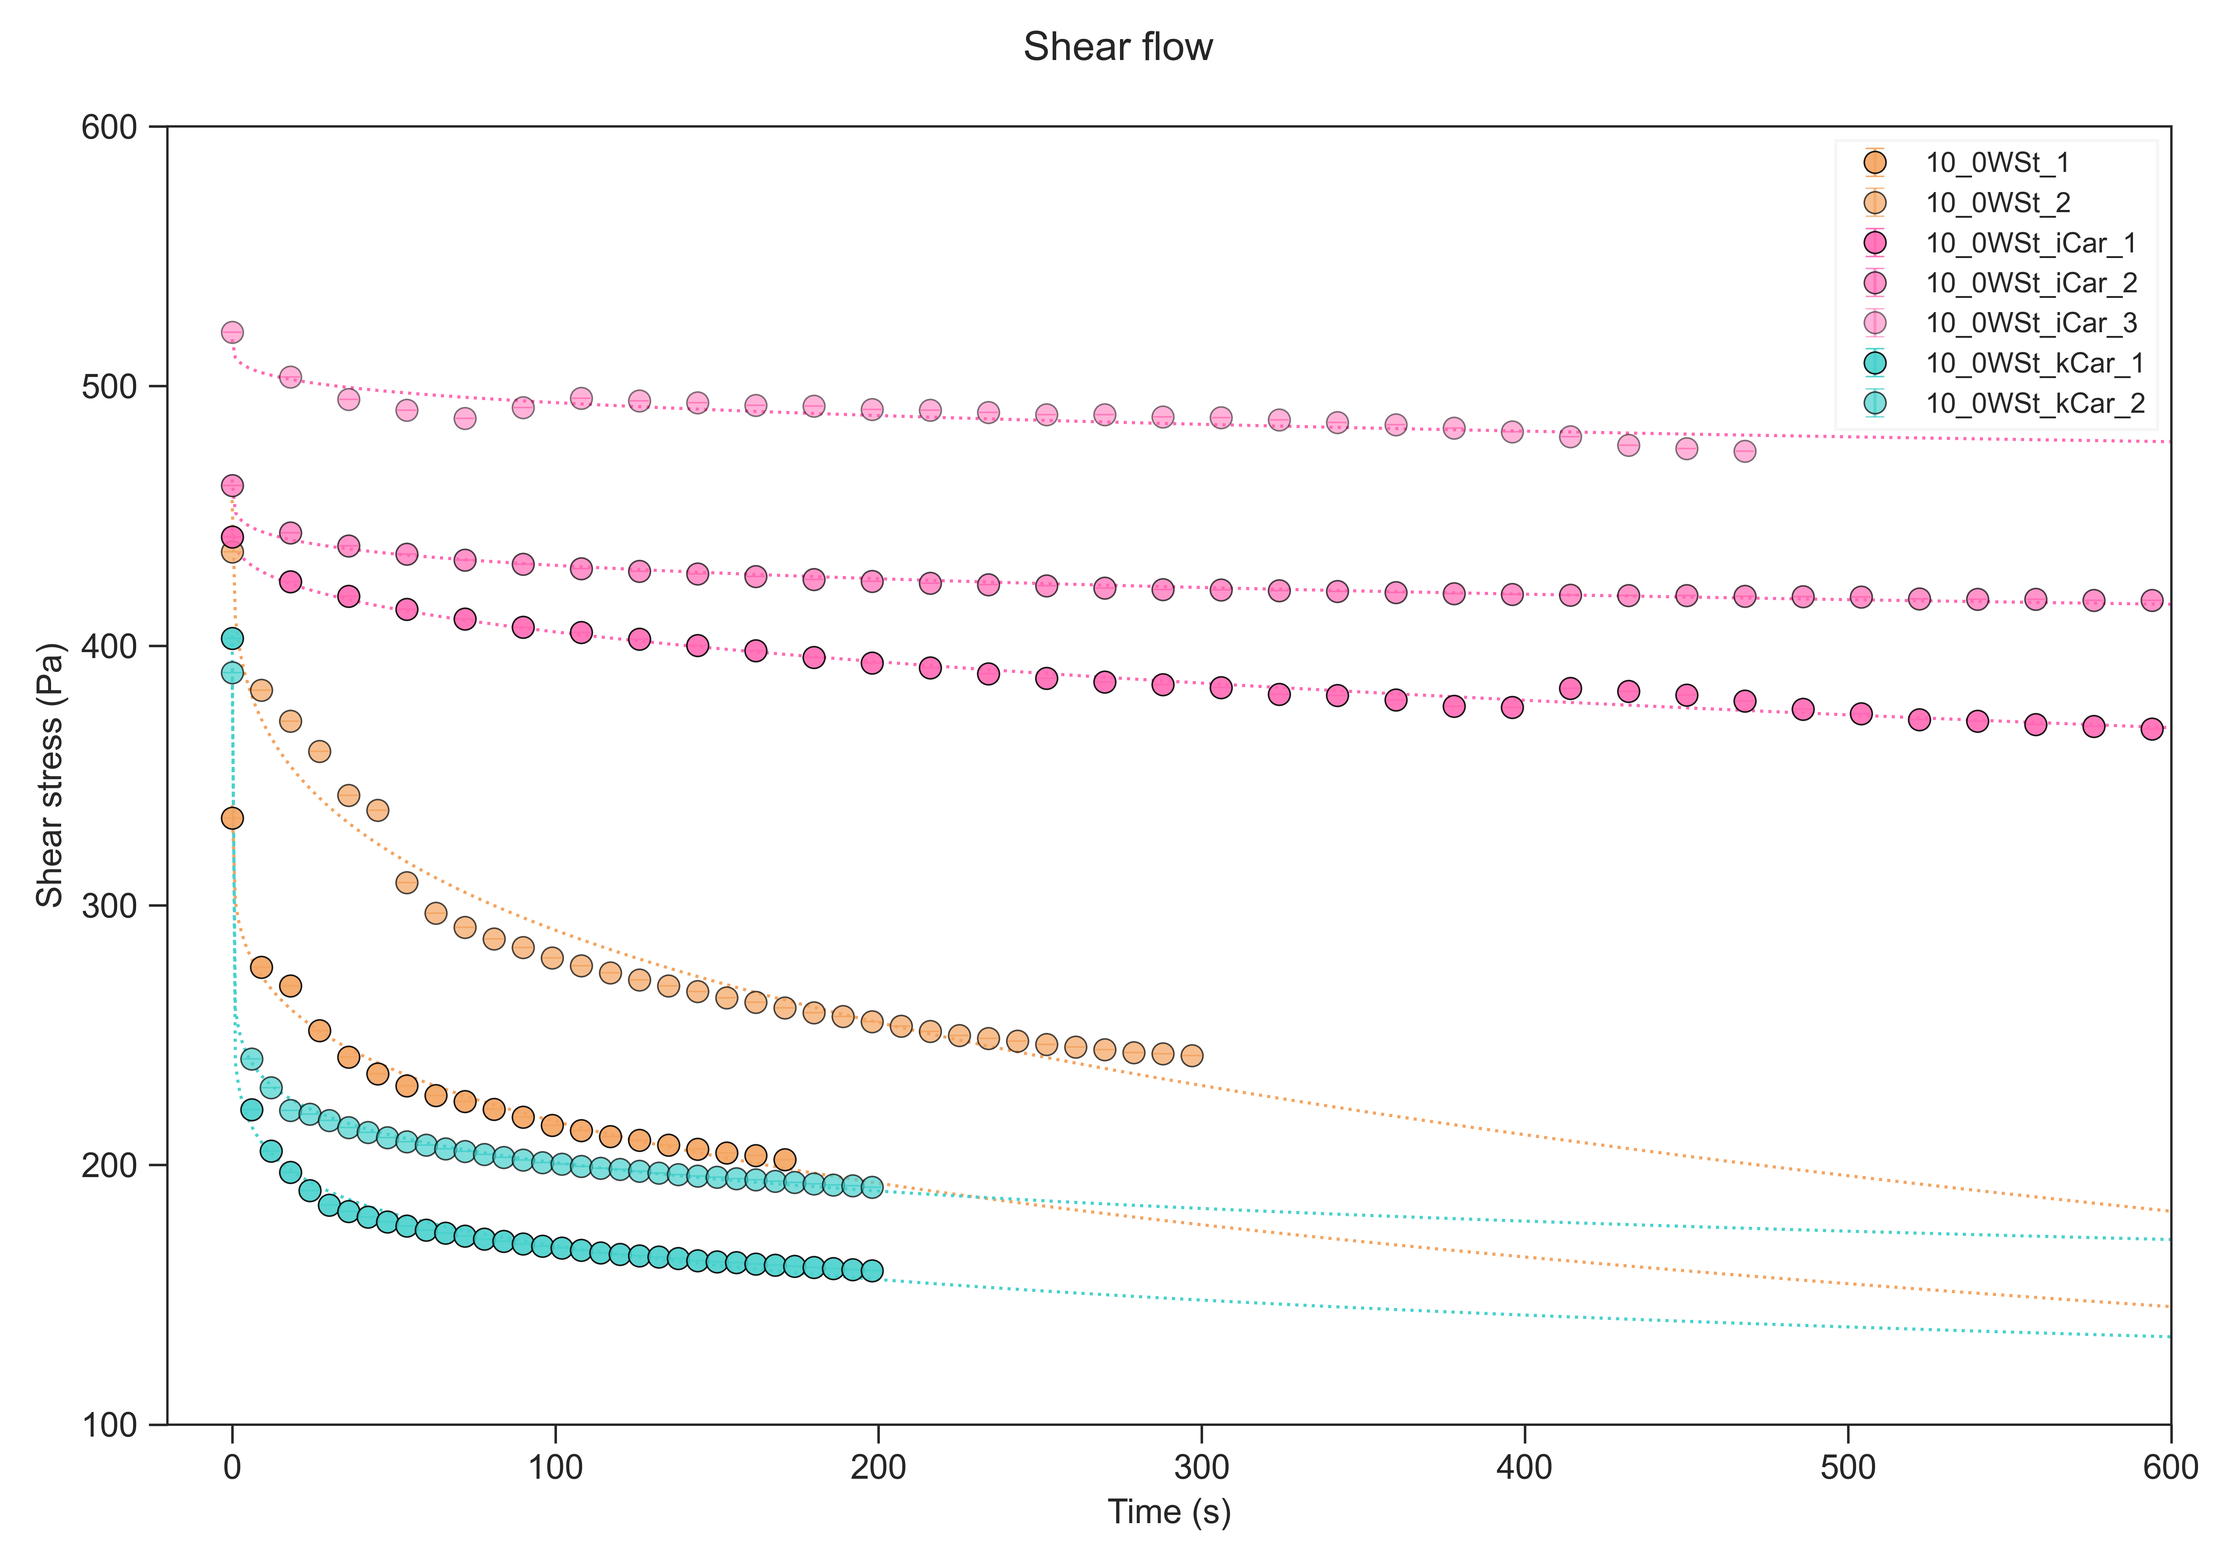
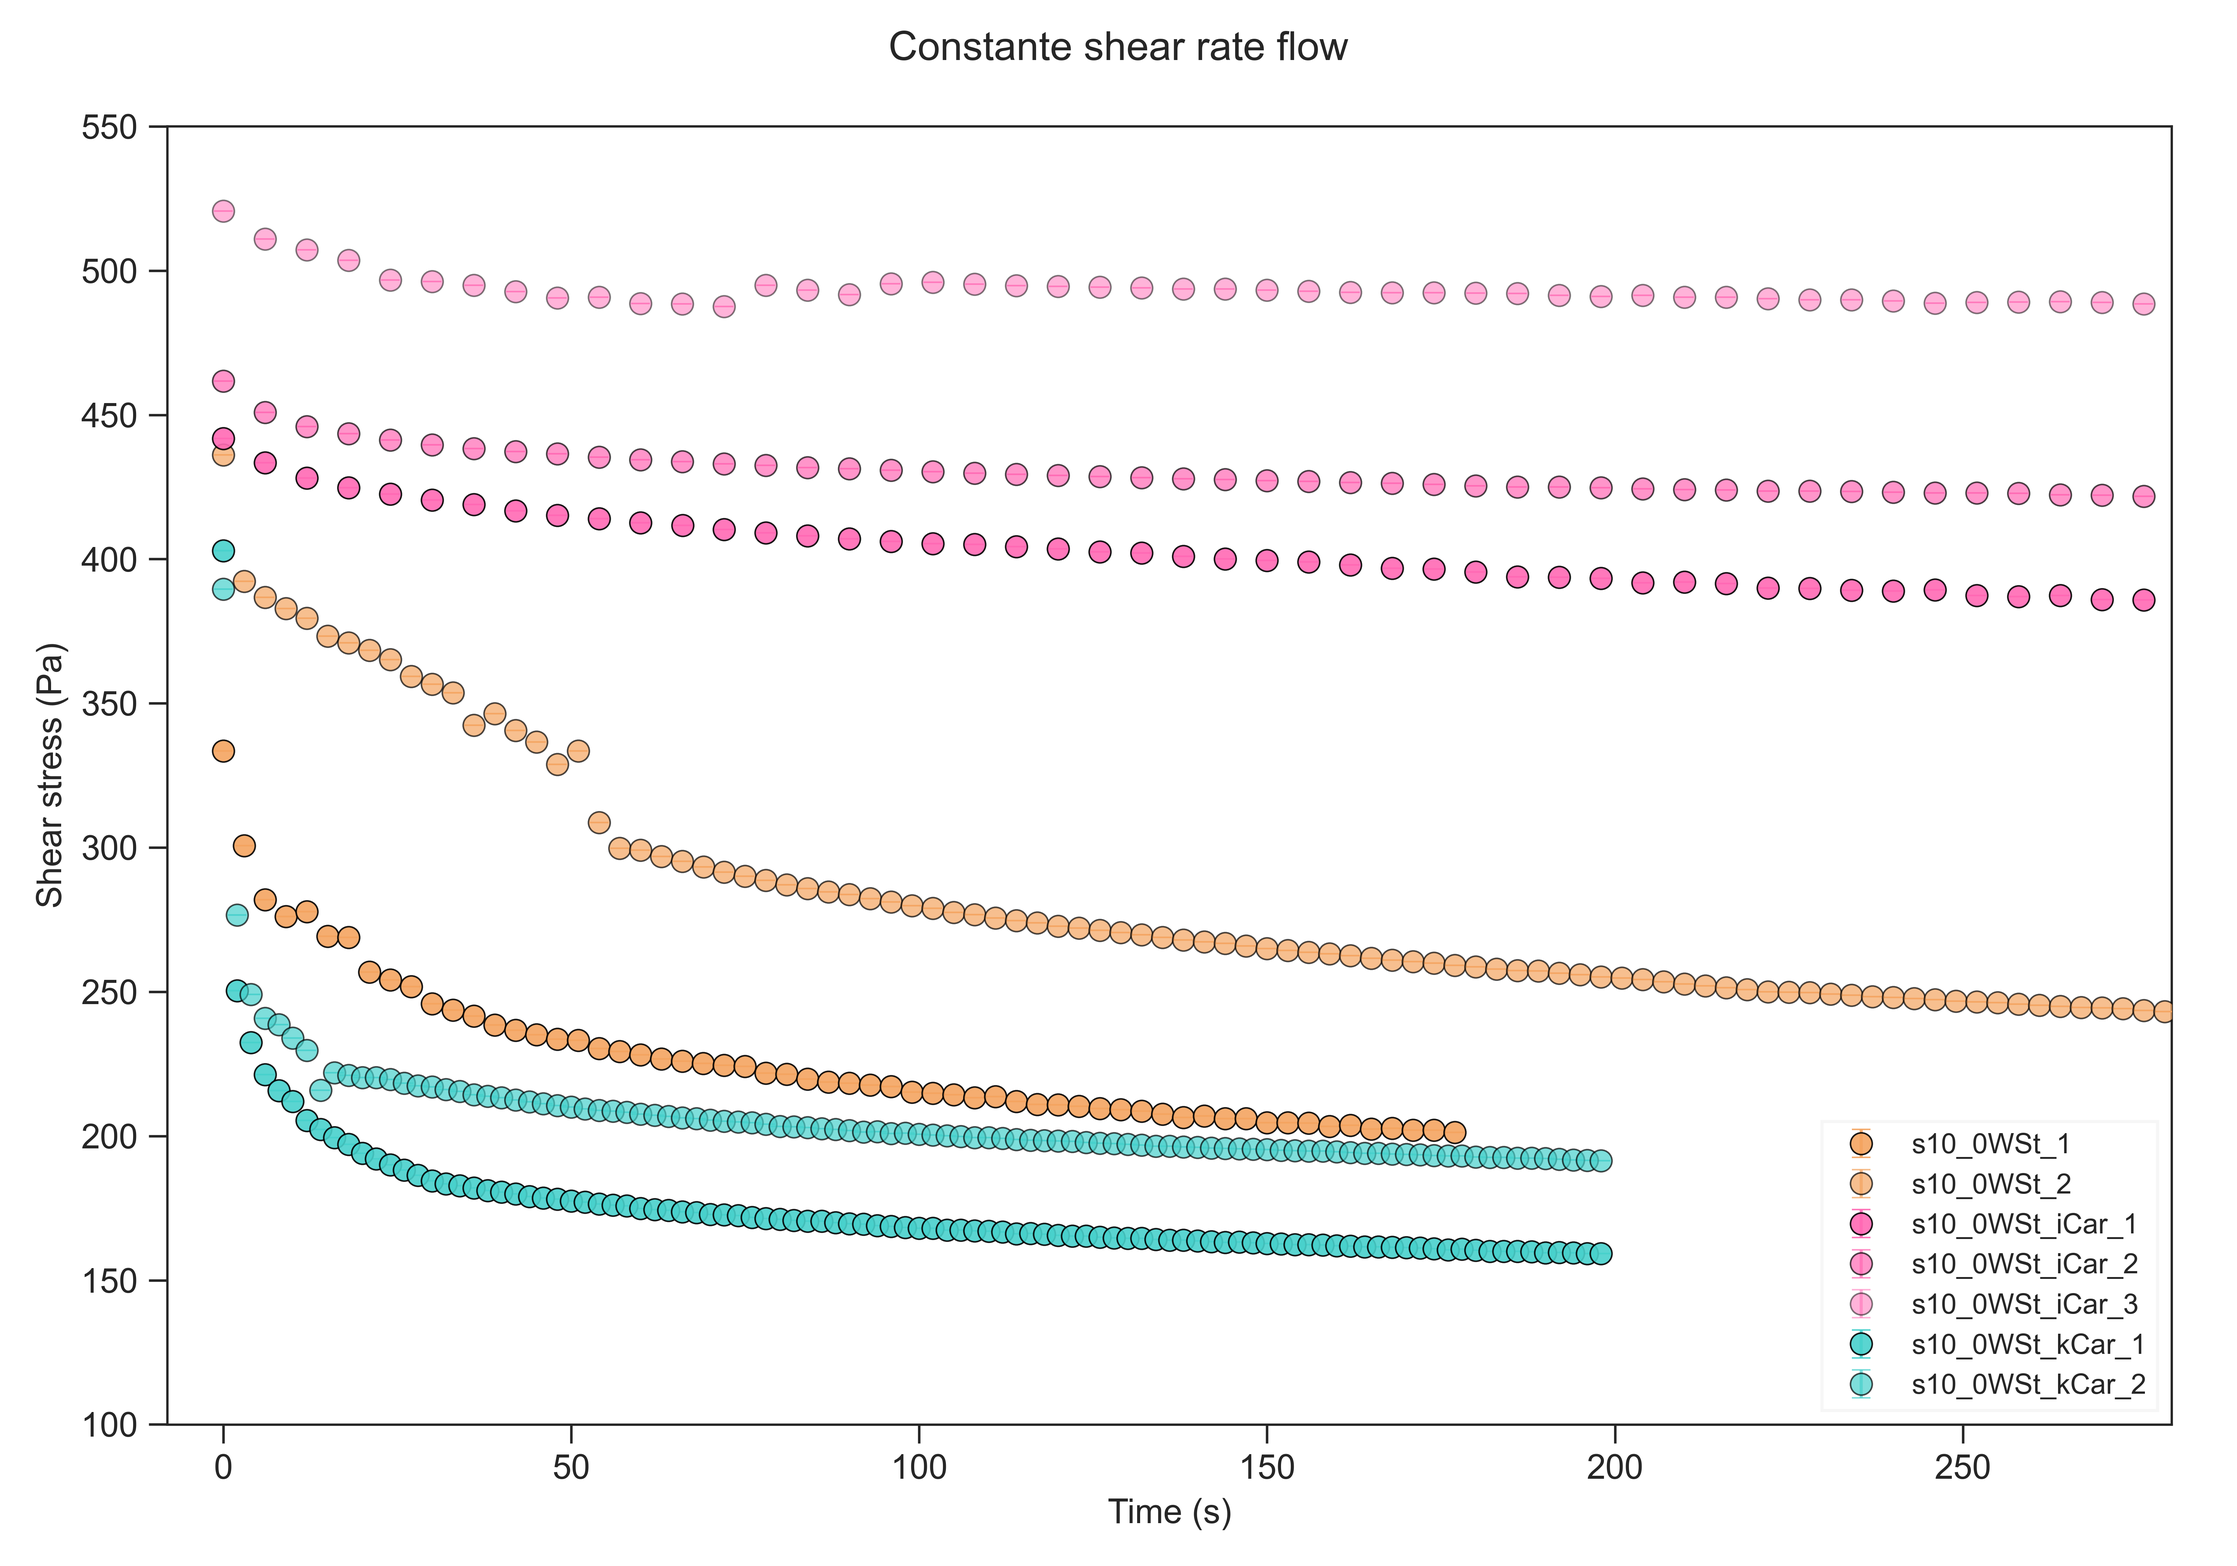
plot shear flow cte and steps

diff --git a/custom plots/ShearFlow.py b/custom plots/ShearFlow.py
@@ -31,22 +31,49 @@ def fonts(folder_path, s=11, m=13):
 
 def exportFit(
         sample,
-        K, n, sigmaZero, err,
-        rows):
-    data = {
-        'Sample': sample,
-        'K': K, 'K err': err[0],
-        'n': n, 'n err': err[1],
-        'sigmaZero': sigmaZero, 'sigmaZero err': err[2]}
+        data, err,
+        rows, modHB=False):
+    keys = ('eta0', 'tau0', 'tau_od', 'gammaDot_od', 'visc_K', 'visc_n', 'etaInf') if modHB \
+        else ('K', 'n', 'sigmaZero')
+    values = (data, err)
 
-    rows.append(data)
+    dictData = {'Sample': sample}
+    iParams = 0
+    for key, value in zip(keys, range(len(values[0]))):
+        dictData[f'{key}'] = values[0][iParams]
+        dictData[f'{key} err'] = values[1][iParams]
+        iParams += 1
+
+    rows.append(dictData)
 
     return rows
 
 
-# TODO: fazer função para fitar modelo de HB
-def powerLaw(sigma, k, n, sigmaZero):
+def funcHB(sigma, k, n, sigmaZero):
     return sigmaZero + k * (sigma ** n)
+
+
+def funcModHB(gamma_dot, eta_0, tau_0, tau_od, gamma_dot_od, K, n, eta_inf):
+    # First part of the equation
+    exp_term = np.exp(- (eta_0 * gamma_dot) / tau_0)
+    part1 = 1 - exp_term
+
+    # Second part (inside the curly brackets)
+    term1 = (tau_0 - tau_od) / gamma_dot * np.exp(- gamma_dot / gamma_dot_od)
+    term2 = tau_od / gamma_dot
+    term3 = K * gamma_dot ** (n - 1)
+
+    # Combine the second part
+    part2 = term1 + term2 + term3
+
+    # Final equation
+    eta_ss = part1 * part2 + eta_inf
+
+    return eta_ss
+
+
+def funcTransient(t, tau_0, tau_e, alpha, gamma_dot):
+    return tau_e + (tau_0 - tau_e) * np.exp(alpha * gamma_dot * t)
 
 
 def getCteMean(values, tolerance=100):
@@ -114,6 +141,7 @@ def getSamplesData(dataPath, nSt, nIc):
             'shear_stress': segments(shear_stress),
             'viscosity': segments(viscosity)
         }
+
     # Store data for each sample type
     samples = {'st': [], 'ic': [], 'kc': []}
 
@@ -143,137 +171,205 @@ def getSamplesData(dataPath, nSt, nIc):
     return dict_cteRate, dict_stepsRate
 
 
-def plotFlowTime(listRows, nSamples,
-                 ax, x, y,
-                 axTitle, yLabel, yLim,
-                 curveColor, markerStyle,
-                 sampleName,
-                 logScale=False):
+def plotFlow(listRows, nSamples,
+             ax, x, y,
+             axTitle, yLabel, yLim, xLabel, xLim,
+             curveColor, markerStyle,
+             sampleName, fit='',
+             logScale=False):
     def legendLabel():
         """Applies consistent styling to legends in plots."""
         legend = ax.legend(fancybox=False, frameon=True, framealpha=0.9, fontsize=9)
         legend.get_frame().set_facecolor('w')
         legend.get_frame().set_edgecolor('whitesmoke')
 
-    def configPlot(fit, idSample):
+    def configPlot(idSample):
         ax.set_title(axTitle, size=9, color='crimson')
         ax.spines[['top', 'bottom', 'left', 'right']].set_linewidth(0.75)
-        ax.set_xlabel('Time (s)')
+
+        ax.set_xlabel(f'{xLabel}')
         ax.set_xscale('log' if logScale else 'linear')
-        ax.set_xlim([-20, +600])
+        ax.set_xlim(xLim)
 
         ax.set_ylabel(f'{yLabel}')
         ax.set_yscale('log' if logScale else 'linear')
         ax.set_ylim(yLim)
 
-        if fit:
+        if fit != '':
             ax.plot(
                 x_fit, y_fit, color=curveColor, linestyle=':', linewidth=1,
                 zorder=2)
-        else:
-            ax.errorbar(
-                x[curve][::3], y[curve][::3], yerr=0, color=curveColor, alpha=(0.9 - curve * 0.2),
-                fmt=markerStyle, markersize=7, mec='k', mew=0.5,
-                capsize=3, lw=1, linestyle='',  # ecolor='k'
-                label=f'{sampleName}_{idSample + 1}', zorder=3)
+
+        ax.errorbar(
+            x[curve], y[curve], yerr=0, color=curveColor, alpha=(0.9 - curve * 0.2),
+            fmt=markerStyle, markersize=7, mec='k', mew=0.5,
+            capsize=3, lw=1, linestyle='',  # ecolor='k'
+            label=f'{sampleName}_{idSample + 1}', zorder=3)
 
         legendLabel()
 
     for curve in range(nSamples):
-        params, covariance = curve_fit(powerLaw, x[curve], y[curve], p0=(2, 1, 0))
-        errors = np.sqrt(np.diag(covariance))
-        K, n, sigmaZero = params
-        x_fit = np.linspace(0, 700, 700)
-        y_fit = powerLaw(x_fit, K, n, sigmaZero)
+        # split_index = np.where(x[curve] <= 180)[0][-1]
+        # x[curve], y[curve] = x[curve][:split_index], y[curve][:split_index]
 
-        configPlot(fit=False, idSample=curve)
-        configPlot(fit=True, idSample=curve)
+        if fit == 'HB':
+            params, covariance = curve_fit(funcHB, x[curve], y[curve], p0=(2, 1, 0))
+            errors = np.sqrt(np.diag(covariance))
+            K, n, sigmaZero = params
+            x_fit = np.linspace(.1, 1000, 1000)
+            y_fit = funcHB(x_fit, K, n, sigmaZero)
+            listRows = exportFit(
+                f'{sampleName}',
+                params, errors,
+                listRows)
+            configPlot(idSample=curve)
 
-        listRows = exportFit(
-            f'{sampleName}',
-            K, n, sigmaZero, errors,
-            listRows)
+        if fit == 'modHB':
+            params, covariance = curve_fit(funcModHB, x[curve], y[curve],
+                                           p0=(100, 10, 5, 1, 1, 0.5, 0.1), maxfev=5000, method='dogbox')
+            errors = np.sqrt(np.diag(covariance))
+            eta0, tau0, tau_od, gammaDot_od, visc_K, visc_n, etaInf = params
+            x_fit = np.linspace(.1, 1000, 1000)
+            y_fit = funcModHB(x_fit, eta0, tau0, tau_od, gammaDot_od, visc_K, visc_n, etaInf)
+            listRows = exportFit(
+                f'{sampleName}',
+                params, errors,
+                listRows, modHB=True)
+            configPlot(idSample=curve)
 
-        print(
-            f'\n· {sampleName} thixotropy fit parameters:\n'
-            f'K = {K:.2f} ± {errors[0]:.2f},\n'
-            f'n = {n:.2f} ± {errors[1]:.2f},\n'
-            f'sigma_0 = {sigmaZero:.1f} ± {errors[2]:.2f}.\n')
+        if fit == 'transient':
+            params, covariance = curve_fit(funcTransient, x[curve], y[curve], p0=(10, 1, 0.1, 1), method='trf')  # method='dogbox', maxfev=5000)
+            errors = np.sqrt(np.diag(covariance))
+            print(params, errors)
+            tau_0, tau_e, alpha, gamma_dot = params
+            x_fit = np.linspace(0, 180, 180)
+            y_fit = funcTransient(x_fit, tau_0, tau_e, alpha, gamma_dot)
+            # listRows = exportFit(
+            #     f'{sampleName}',
+            #     params, errors,
+            #     listRows)
+            configPlot(idSample=curve)
+
+        configPlot(idSample=curve)
 
     return listRows
 
 
-def main(dataPath):
+def main(dataPath, thixo):
     fonts('C:/Users/petrus.kirsten/AppData/Local/Microsoft/Windows/Fonts/')
-    # samplesQuantities = list(samplesValues.keys())
 
-    fileName = '10pct_0WSt_and_Car-Thixotropy'
+    fileName = '10pct_0WSt_and_Car-Thixotropy' if thixo else '10pct_0WSt_and_Car-Flow'
     dirSave = Path(*Path(filePath[0]).parts[:Path(filePath[0]).parts.index('data') + 1])
 
     plt.style.use('seaborn-v0_8-ticks')
     fig, axStress = plt.subplots(figsize=(10, 7), facecolor='w', ncols=1)
-    # axVisc = axStress.twinx()
-    fig.suptitle(f'Shear flow')
+    axVisc = None if thixo else axStress.twinx()
+    fig.suptitle(f'Constante shear rate flow' if thixo else f'Steps shear rate flow')
 
-    yTitle, yLimits = f'Shear stress (Pa)', (100, 600)
-    xTitle, xLimits = f'Frequency (Hz)', (0.05, 150)
+    xTitle, xLimits = (f'Time (s)', (-5, 200)) if thixo else (f'Shear rate ($s^{-1}$)', (15, 500))
+    yTitle, yLimits = (f'Shear stress (Pa)', (100, 600)) if thixo else (f'Shear stress (Pa)', (3, 550))
+    yTitleVisc, yLimitsVisc = f'Viscosity (mPa·s)', (450, 100000)
     st5_color, st10_color, ic_color, kc_color = 'silver', 'sandybrown', 'hotpink', 'mediumturquoise'
 
     st_nSamples, ic_nSamples, kc_nSamples = 2, 3, 2
-    constantShear, _ = getSamplesData(dataPath, st_nSamples, ic_nSamples)
+    constantShear, stepsShear = getSamplesData(dataPath, st_nSamples, ic_nSamples)
 
-    (x_st, s_st, v_st,
-     x_ic, s_ic, v_ic,
-     x_kc, s_kc, v_kc) = (
-        constantShear['st_time'],
-        constantShear['st_stressCte'],
-        constantShear['st_viscosityCte'],
-        #
-        constantShear['ic_time'],
-        constantShear['ic_stressCte'],
-        constantShear['ic_viscosityCte'],
-        #
-        constantShear['kc_time'],
-        constantShear['kc_stressCte'],
-        constantShear['kc_viscosityCte'])
+    # Shear rate cte data
+    if thixo:
+        fitModeStress, fitModeVisc = '', ''
+        (x_st, s_st, v_st,
+         x_ic, s_ic, v_ic,
+         x_kc, s_kc, v_kc) = (
+            # 10% starch
+            constantShear['st_time'],
+            constantShear['st_stressCte'],
+            constantShear['st_viscosityCte'],
+            # 10% starch + iota
+            constantShear['ic_time'],
+            constantShear['ic_stressCte'],
+            constantShear['ic_viscosityCte'],
+            # 10% starch + kappa
+            constantShear['kc_time'],
+            constantShear['kc_stressCte'],
+            constantShear['kc_viscosityCte'])
+    # Shear rate steps data
+    else:
+        fitModeStress, fitModeVisc = 'HB', 'modHB'
+        (x_st, s_st, v_st,
+         x_ic, s_ic, v_ic,
+         x_kc, s_kc, v_kc) = (
+            # 10% starch
+            stepsShear['st_rateSteps'],
+            stepsShear['st_stressSteps'],
+            stepsShear['st_viscositySteps'],
+            # 10% starch + iota
+            stepsShear['ic_rateSteps'],
+            stepsShear['ic_stressSteps'],
+            stepsShear['ic_viscositySteps'],
+            # 10% starch + kappa
+            stepsShear['kc_rateSteps'],
+            stepsShear['kc_stressSteps'],
+            stepsShear['kc_viscositySteps'])
 
-    table = []
-
-    table = plotFlowTime(
-        listRows=table, nSamples=st_nSamples,
+    tableStress = []
+    # Shear stress plot
+    tableStress = plotFlow(
+        listRows=tableStress, nSamples=st_nSamples,
         ax=axStress, x=x_st, y=s_st,
-        axTitle='', yLabel=yTitle, yLim=yLimits,
+        axTitle='', yLabel=yTitle, yLim=yLimits, xLabel=xTitle, xLim=xLimits,
         curveColor=st10_color, markerStyle='o',
-        sampleName=f'10_0WSt')
+        sampleName=f's10_0WSt', logScale=False if thixo else True, fit=fitModeStress)
 
-    table = plotFlowTime(
-        listRows=table, nSamples=ic_nSamples,
+    tableStress = plotFlow(
+        listRows=tableStress, nSamples=ic_nSamples,
         ax=axStress, x=x_ic, y=s_ic,
-        axTitle='', yLabel=yTitle, yLim=yLimits,
+        axTitle='', yLabel=yTitle, yLim=yLimits, xLabel=xTitle, xLim=xLimits,
         curveColor=ic_color, markerStyle='o',
-        sampleName=f'10_0WSt_iCar')
+        sampleName=f's10_0WSt_iCar', logScale=False if thixo else True, fit=fitModeStress)
 
-    table = plotFlowTime(
-        listRows=table, nSamples=kc_nSamples,
+    tableStress = plotFlow(
+        listRows=tableStress, nSamples=kc_nSamples,
         ax=axStress, x=x_kc, y=s_kc,
-        axTitle='', yLabel=yTitle, yLim=yLimits,
+        axTitle='', yLabel=yTitle, yLim=yLimits, xLabel=xTitle, xLim=xLimits,
         curveColor=kc_color, markerStyle='o',
-        sampleName=f'10_0WSt_kCar')
+        sampleName=f's10_0WSt_kCar', logScale=False if thixo else True, fit=fitModeStress)
+
+    # Viscosity plot
+    # tableStress = plotFlow(
+    #     listRows=tableStress, nSamples=st_nSamples,
+    #     ax=axVisc, x=x_st, y=v_st,
+    #     axTitle='', yLabel=yTitleVisc, yLim=yLimitsVisc, xLabel=xTitle, xLim=xLimits,
+    #     curveColor=st10_color, markerStyle='s',
+    #     sampleName=f'v10_0WSt', logScale=True, fit=fitModeVisc)
+    #
+    # tableStress = plotFlow(
+    #     listRows=tableStress, nSamples=ic_nSamples,
+    #     ax=axVisc, x=x_ic, y=v_ic,
+    #     axTitle='', yLabel=yTitleVisc, yLim=yLimitsVisc, xLabel=xTitle, xLim=xLimits,
+    #     curveColor=ic_color, markerStyle='s',
+    #     sampleName=f'v10_0WSt_iCar', logScale=True, fit=fitModeVisc)
+    #
+    # tableStress = plotFlow(
+    #     listRows=tableStress, nSamples=kc_nSamples,
+    #     ax=axVisc, x=x_kc, y=v_kc,
+    #     axTitle='', yLabel=yTitleVisc, yLim=yLimitsVisc, xLabel=xTitle, xLim=xLimits,
+    #     curveColor=kc_color, markerStyle='s',
+    #     sampleName=f'v10_0WSt_kCar', logScale=True, fit=fitModeVisc)
 
     # plt.subplots_adjust(wspace=0.175, top=0.890, bottom=0.14, left=0.05, right=0.95)
     plt.tight_layout()
     plt.show()
     fig.savefig(f'{dirSave}' + f'\\{fileName}' + '.png', facecolor='w', dpi=600)
 
-    fitParams = pd.DataFrame(table)
+    fitParams = pd.DataFrame(tableStress)
     fitParams.to_excel(f'{dirSave}' + f'\\{fileName}' + '.xlsx', index=False)
 
-    print(f'\n\n· Chart and table with fitted parameters saved at\n{dirSave}.')
+    print(f'\n\n· Chart and tableStress with fitted parameters saved at\n{dirSave}.')
 
 
 if __name__ == '__main__':
-    # folderPath = "C:/Users/petrus.kirsten/PycharmProjects/RheometerPlots/data"
-    folderPath = "C:/Users/Petrus Kirsten/Documents/GitHub/RheometerPlots/data"
+    folderPath = "C:/Users/petrus.kirsten/PycharmProjects/RheometerPlots/data"
+    # folderPath = "C:/Users/Petrus Kirsten/Documents/GitHub/RheometerPlots/data"
     filePath = [
         folderPath + "/031024/10_0WSt/10_0WSt-viscRec_1.xlsx",
         folderPath + "/031024/10_0WSt/10_0WSt-viscRec_2.xlsx",
@@ -288,4 +384,4 @@ if __name__ == '__main__':
         # folderPath + "/091024/10_0WSt_kCar/10_0WSt_kCar-viscoelasticRecovery-Flow_4a.xlsx",
     ]
 
-    main(dataPath=filePath)
+    main(dataPath=filePath, thixo=True)
